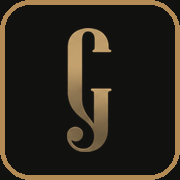
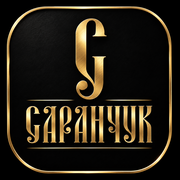
Іконка для екрана iPhone: логотип у золотій рамці, manifest
Claude-Session: https://claude.ai/code/session_01EeYT7WA6bYrBJFTEK9muAt

diff --git a/index.html b/index.html
@@ -5,8 +5,10 @@
 <meta name="viewport" content="width=device-width, initial-scale=1">
 <title>Саранчук — ювелірна майстерня</title>
 <meta name="description" content="Ювелірна майстерня Саранчук. Церковне начиння та наперсні хрести у філіграні зі срібла й золота, ручна робота на замовлення, доставка по всьому світу">
-<link rel="icon" type="image/png" sizes="32x32" href="img/favicon-32.png">
-<link rel="apple-touch-icon" href="img/apple-touch-icon.png">
+<link rel="icon" type="image/png" sizes="32x32" href="img/favicon-32.png?v=2">
+<link rel="apple-touch-icon" sizes="180x180" href="img/apple-touch-icon.png?v=2">
+<link rel="manifest" href="manifest.webmanifest">
+<meta name="apple-mobile-web-app-title" content="Саранчук">
 <meta name="theme-color" content="#111110">
 <meta property="og:type" content="website">
 <meta property="og:title" content="Саранчук — ювелірна майстерня">
